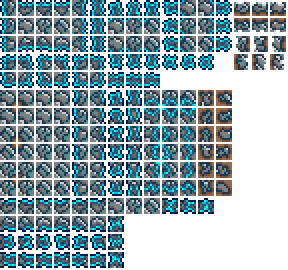
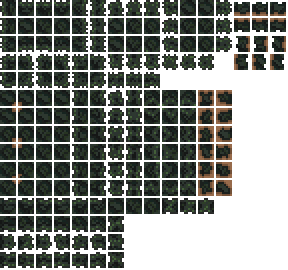
Updated Tile Codes & Added New Ore (Rubidium)

diff --git a/Tiles/swampherb.cs b/Tiles/swampherb.cs
@@ -1,0 +1,71 @@
+using Retribution.Items;
+using Microsoft.Xna.Framework;
+using Microsoft.Xna.Framework.Graphics;
+using Terraria;
+using Terraria.ID;
+using Terraria.ModLoader;
+using Terraria.ObjectData;
+
+namespace Retribution.Tiles
+{
+	//An enum on the 3 stages of herb growth.
+	public enum PlantStage : byte
+	{
+		Planted,
+		Growing,
+		Grown
+	}
+
+	//A plant with 3 stages, planted, growing and grown.
+	//Sadly, modded plants are unable to be grown by the flower boots
+	public class swampherb : ModTile
+	{
+		private const int FrameWidth = 18; //a field for readibilty and to kick out those magic numbers
+
+		public override void SetDefaults()
+		{
+			Main.tileFrameImportant[Type] = true;
+			Main.tileCut[Type] = true;
+			Main.tileNoFail[Type] = true;
+
+			TileObjectData.newTile.CopyFrom(TileObjectData.StyleAlch);
+
+			TileObjectData.newTile.AnchorValidTiles = new int[]
+			{
+				ModContent.TileType<bluemoss>()
+			};
+
+			TileObjectData.addTile(Type);
+		}
+
+		public override void SetSpriteEffects(int i, int j, ref SpriteEffects spriteEffects)
+		{
+			if (i % 2 == 1)
+				spriteEffects = SpriteEffects.FlipHorizontally;
+		}
+
+		public override void RandomUpdate(int i, int j)
+		{
+			Tile tile = Framing.GetTileSafely(i, j); //Safe way of getting a tile instance
+			PlantStage stage = GetStage(i, j); //The current stage of the herb
+
+			//Only grow to the next stage if there is a next stage. We dont want our tile turning pink!
+			if (stage != PlantStage.Grown)
+			{
+				//Increase the x frame to change the stage
+				tile.frameX += FrameWidth;
+
+				//If in multiplayer, sync the frame change
+				if (Main.netMode != NetmodeID.SinglePlayer)
+					NetMessage.SendTileSquare(-1, i, j, 1);
+			}
+		}
+
+		//A method to quickly get the current stage of the herb
+		private PlantStage GetStage(int i, int j)
+		{
+			Tile tile = Framing.GetTileSafely(i, j); //Always use Framing.GetTileSafely instead of Main.tile as it prevents any errors caused from other mods
+			return (PlantStage)(tile.frameX / FrameWidth);
+		}
+	}
+}

diff --git a/Tiles/rubidiumbar.cs b/Tiles/rubidiumbar.cs
@@ -1,0 +1,37 @@
+using Microsoft.Xna.Framework;
+using Terraria;
+using Terraria.Localization;
+using Terraria.ModLoader;
+using Terraria.ObjectData;
+
+namespace Retribution.Tiles
+{
+    public class rubidiumbar : ModTile
+    {
+		public override void SetDefaults()
+		{
+			Main.tileShine[Type] = 1100;
+			Main.tileSolid[Type] = true;
+			Main.tileSolidTop[Type] = true;
+			Main.tileFrameImportant[Type] = true;
+
+			TileObjectData.newTile.CopyFrom(TileObjectData.Style1x1);
+			TileObjectData.newTile.StyleHorizontal = true;
+			TileObjectData.newTile.LavaDeath = false;
+			TileObjectData.addTile(Type);
+
+			AddMapEntry(new Color(230, 246, 255), Language.GetText("MapObject.MetalBar")); // localized text for "Metal Bar"
+		}
+
+		public override bool Drop(int i, int j)
+		{
+			Tile t = Main.tile[i, j];
+			int style = t.frameX / 18;
+			if (style == 0) // It can be useful to share a single tile with multiple styles. This code will let you drop the appropriate bar if you had multiple.
+			{
+				Item.NewItem(i * 16, j * 16, 16, 16, ModContent.ItemType<Items.Blocks.rubidiumbar>());
+			}
+			return base.Drop(i, j);
+		}
+	}
+}

diff --git a/Tiles/rubidium.cs b/Tiles/rubidium.cs
@@ -1,0 +1,37 @@
+using System;
+using Microsoft.Xna.Framework;
+using Microsoft.Xna.Framework.Graphics;
+using Terraria;
+using Terraria.ID;
+using Terraria.ModLoader;
+using Terraria.ObjectData;
+using Terraria.Enums;
+using Retribution.Tiles;
+
+namespace Retribution.Tiles
+{
+    public class rubidium : ModTile
+    {
+        public override void SetDefaults()
+		{
+			TileID.Sets.Ore[Type] = true;
+			Main.tileSpelunker[Type] = true;
+			Main.tileValue[Type] = 410;
+			Main.tileShine2[Type] = true;
+			Main.tileShine[Type] = 500;
+			Main.tileMergeDirt[Type] = true;
+			Main.tileSolid[Type] = true;
+			Main.tileBlockLight[Type] = true;
+
+			ModTranslation name = CreateMapEntryName();
+			name.SetDefault("Rubidium Ore");
+			AddMapEntry(new Color(230, 246, 255), name);
+
+			dustType = 84;
+			drop = ModContent.ItemType<Items.Blocks.rubidiumore>();
+			soundType = SoundID.Tink;
+			soundStyle = 1;
+			minPick = 65;
+		}
+	}
+}
